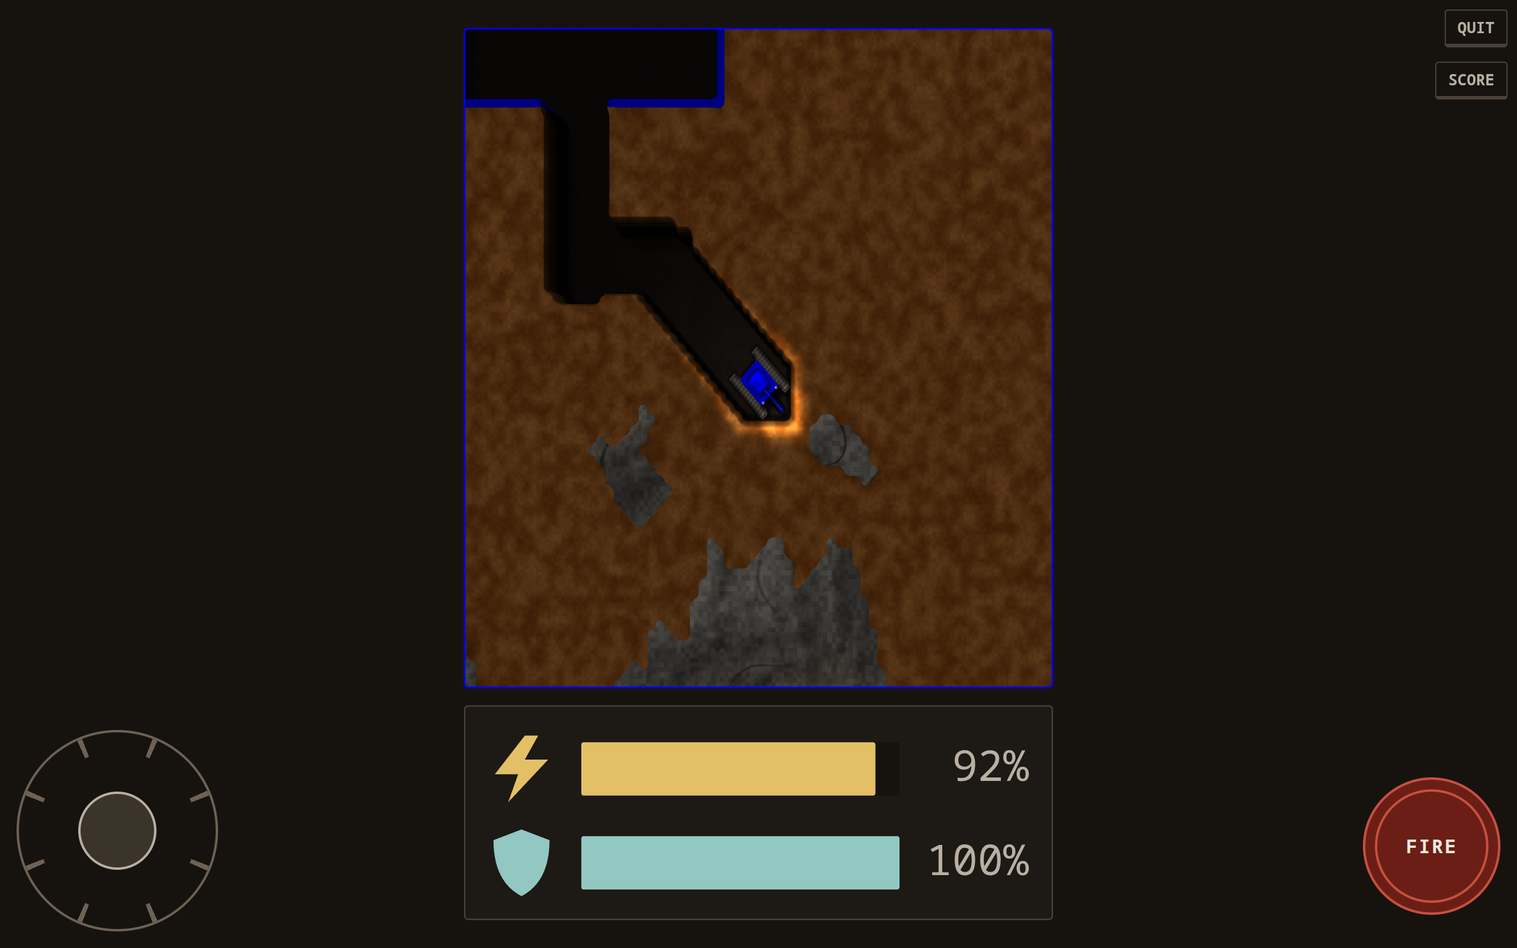
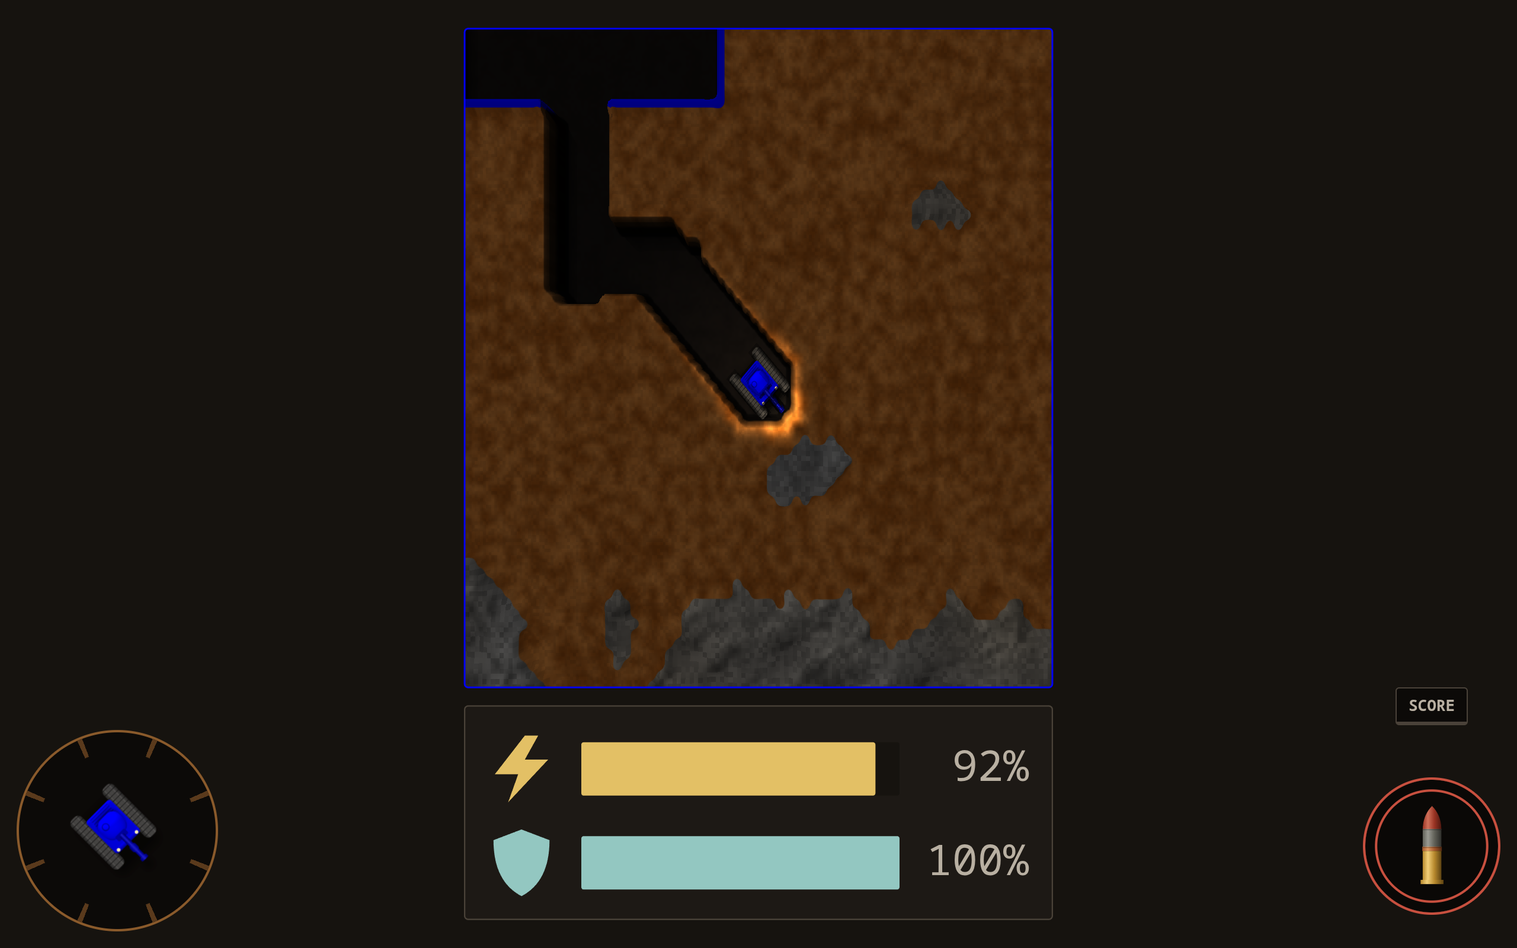
1.5.3: the picture drawn at most ~60 times a second (surface.js FRAME_MS: a 120 Hz phone was choppy drawing every frame); touch SCORE above FIRE and ESC / QUIT in the top left corner both ways a phone is held (upright the game below it: body.tpad-quit), no QUIT in the Android app (Back is Esc); the 

diff --git a/src/js/io/pads.js b/src/js/io/pads.js
@@ -210,7 +210,7 @@ class TouchControls {
     showPic(el("tpad-shell", this.fireBtn, null, "img"), shell);
     el("tpad-shellm", this.fireBtn, null, "span").innerHTML = SHELL_SVG;
     if (this.fireBtn.setAttribute) this.fireBtn.setAttribute("aria-label", labels.fire);
-    this.escBtn = el("tpad-esc", this.root, labels.esc);
+    this.escBtn = labels.esc ? el("tpad-esc", this.root, labels.esc) : null;
     this.statsBtn = labels.stats ? el("tpad-stats", this.root, labels.stats) : null;   // (held: the statistics)
     const capture = (t, e) => { try { t.setPointerCapture(e.pointerId); } catch (_) { /* (synthesized) */ } };
     const stop = e => { if (e.cancelable && e.preventDefault) e.preventDefault(); };
@@ -225,7 +225,7 @@ class TouchControls {
       b.addEventListener("contextmenu", stop);
     };
     button(this.fireBtn, this.fire);
-    button(this.escBtn, this.esc);
+    if (this.escBtn) button(this.escBtn, this.esc);
     if (this.statsBtn) button(this.statsBtn, this.stats);
     this.root.addEventListener("contextmenu", stop);
   }
@@ -337,7 +337,8 @@ function start(opts) {
   // top, the controls below it - everything else is centred; owner, 2026-10-27)
   function shown() {
     const cl = doc && doc.body && doc.body.classList;
-    if (cl) cl.toggle("tpad-shown", !!touch && !touch.root.hidden && !touch.menuHidden);
+    const on = !!touch && !touch.root.hidden && !touch.menuHidden;
+    if (cl) { cl.toggle("tpad-shown", on); cl.toggle("tpad-quit", on && !!touch.escBtn); }   // (tpad-quit: upright, the game below ESC)
   }
 
   // touch: the controls appear on the first touch (or right away on a touch-only device)
@@ -348,7 +349,8 @@ function start(opts) {
     shown();
   }
   if (opts.touchSet && doc && doc.body && typeof doc.body.appendChild === "function" && typeof doc.createElement === "function") {
-    touch = new TouchControls(doc, { fire: T("touch.fire") || "FIRE", esc: T(opts.escLabel || "touch.esc") || "ESC",
+    // (no ESC button in the Android app: the phone's Back is Esc there - MainActivity.kt; owner, 2026-11-11)
+    touch = new TouchControls(doc, { fire: T("touch.fire") || "FIRE", esc: root.TunnelerAndroid ? null : T(opts.escLabel || "touch.esc") || "ESC",
       stats: opts.statsLabel ? T(opts.statsLabel) || "SCORE" : null }, opts.touchTank);
     touch.root.hidden = true;
     doc.body.appendChild(touch.root);
@@ -372,7 +374,7 @@ function start(opts) {
     for (const p of pads.values()) p.releaseAll();
     if (touchPad) touchPad.releaseAll();
     if (touch && touch.root.remove) touch.root.remove();
-    if (doc && doc.body && doc.body.classList) doc.body.classList.remove("tpad-shown");
+    if (doc && doc.body && doc.body.classList) { doc.body.classList.remove("tpad-shown"); doc.body.classList.remove("tpad-quit"); }
     if (toastEl && toastEl.remove) toastEl.remove();
   });
   return { poll, pads, touch, showTouch };
@@ -380,16 +382,16 @@ function start(opts) {
 
 // touch controls' options: their size ("tunneler.touch.size": small / medium = the original / large - the
 // joystick and the buttons scaled, style.css --tpad-k), sides ("tunneler.touch.left" "1": the joystick
-// on the right, FIRE on the left) and look ("tunneler.touch.look": plain / tank - TouchControls); body classes
-// tpad-small / tpad-large / tpad-left / tpad-tank
-const TOUCH = { size: ["small", "medium", "large"], left: ["off", "on"], look: ["plain", "tank"] };
+// on the right, FIRE on the left) and look ("tunneler.touch.look": tank - the default, owner 2026-11-11 - / plain -
+// TouchControls); body classes tpad-small / tpad-large / tpad-left / tpad-tank
+const TOUCH = { size: ["small", "medium", "large"], left: ["off", "on"], look: ["tank", "plain"] };
 const TOUCH_KEYS = { size: "tunneler.touch.size", left: "tunneler.touch.left", look: "tunneler.touch.look" };
 function getTouch(name) {
   if (!TOUCH[name]) return null;
   let v = null;
   try { v = root.localStorage ? root.localStorage.getItem(TOUCH_KEYS[name]) : null; } catch (e) { v = null; }
   if (name === "left") return v === "1" ? "on" : "off";
-  if (name === "look") return TOUCH.look.includes(v) ? v : "plain";
+  if (name === "look") return TOUCH.look.includes(v) ? v : "tank";
   return TOUCH.size.includes(v) ? v : "medium";
 }
 function setTouch(name, value) {

diff --git a/src/css/style.css b/src/css/style.css
@@ -109,17 +109,19 @@ body.tpad-tank .tpad-shell { display: block; }
 .tpad-shellm svg { display: block; height: 100%; margin: 0 auto; }
 html.modern body.tpad-tank .tpad-shell { display: none; }
 html.modern body.tpad-tank .tpad-shellm { display: block; }
-/* ESC: a key cap; SCORE (held: the statistics) the same, below it (--cap: a key cap's height with the gap) */
-.tpad { --cap: calc(36px * var(--tpad-k, 1) + 8px); }
-.tpad-esc, .tpad-stats { right: max(8px, env(safe-area-inset-right)); top: max(8px, env(safe-area-inset-top));
-  padding: calc(5px * var(--tpad-k, 1)) calc(10px * var(--tpad-k, 1)); border-radius: 3px;
+/* ESC: a key cap in the top left corner (none in the Android app: its Back is Esc - pads.js); SCORE (held: the
+   statistics) the same, above FIRE, a key cap's height clear of it (owner, 2026-11-11: not between the joystick and
+   FIRE; ESC on the left - both ways a phone is held) */
+.tpad-esc, .tpad-stats { padding: calc(5px * var(--tpad-k, 1)) calc(10px * var(--tpad-k, 1)); border-radius: 3px;
   background: var(--fill); color: var(--esc); border: 1px solid var(--esc-edge); border-bottom-width: 3px; font-size: calc(13px * var(--tpad-k, 1)); }
-.tpad-stats { top: calc(max(8px, env(safe-area-inset-top)) + var(--cap)); }
+.tpad-esc { left: max(8px, env(safe-area-inset-left)); top: max(8px, env(safe-area-inset-top)); }
+.tpad-stats { --f: calc(min(26vmin, 116px) * var(--tpad-k, 1)); right: calc(max(14px, env(safe-area-inset-right)) + var(--f) / 2);
+  transform: translateX(50%); bottom: calc(max(28px, env(safe-area-inset-bottom)) + var(--f) + 8px + 36px * var(--tpad-k, 1)); }
 .tpad-esc.on, .tpad-stats.on { color: #fff; border-color: var(--esc); border-bottom-width: 1px; translate: 0 2px; }
 .tpad.dead .tpad-stick, .tpad.dead .tpad-fire { display: none; }   /* (your tank destroyed: ESC only) */
 body.tpad-left .tpad-stick { left: auto; right: max(14px, env(safe-area-inset-right)); }
 body.tpad-left .tpad-fire { right: auto; left: max(14px, env(safe-area-inset-left)); }
-body.tpad-left .tpad-esc, body.tpad-left .tpad-stats { right: auto; left: max(8px, env(safe-area-inset-left)); }
+body.tpad-left .tpad-stats { right: auto; left: calc(max(14px, env(safe-area-inset-left)) + var(--f) / 2); transform: translateX(-50%); }
 /* portrait: the game at the top, the controls below it */
 @media (orientation: portrait) {
   /* (no padding but the safe areas: the canvas to the screen's edges - a finger near an edge still drags it; owner,
@@ -130,11 +132,9 @@ body.tpad-left .tpad-esc, body.tpad-left .tpad-stats { right: auto; left: max(8p
   /* (the game at the top while the joystick and FIRE are below it - pads.js body.tpad-shown; anything else centred:
      the map editor, a spectator's or a replay's game, the engine's text screens) */
   body.touch.tpad-shown .screen { justify-content: flex-start; }
-  .tpad-esc, body.tpad-left .tpad-esc, .tpad-stats, body.tpad-left .tpad-stats { top: auto; right: auto; left: 50%; transform: translateX(-50%); bottom: max(28px, env(safe-area-inset-bottom)); }
-  .tpad-stats, body.tpad-left .tpad-stats { bottom: calc(max(28px, env(safe-area-inset-bottom)) + var(--cap)); }
-  /* (large: no room between the joystick and FIRE - ESC goes just above the joystick's top) */
-  body.tpad-large .tpad-esc { bottom: calc(max(14px, env(safe-area-inset-bottom)) + min(38vmin, 170px) * 1.3 + 8px); }
-  body.tpad-large .tpad-stats { bottom: calc(max(14px, env(safe-area-inset-bottom)) + min(38vmin, 170px) * 1.3 + 8px + var(--cap)); }
+  /* (the game below ESC - pads.js body.tpad-quit while it shows; owner, 2026-11-11; views.js keeps it above SCORE) */
+  body.touch.tpad-shown.tpad-quit { --screen-py: calc(env(safe-area-inset-top) + env(safe-area-inset-bottom) + 36px * var(--tpad-k, 1) + 16px); }
+  body.touch.tpad-shown.tpad-quit .screen { padding-top: calc(max(8px, env(safe-area-inset-top)) + 36px * var(--tpad-k, 1) + 8px); }
   body.touch .game:not([style*="width"]) { width: calc(100vw - var(--screen-px)); }
   body.touch .game.half:not([style*="width"]) { width: min(calc(100vw - 16px), calc((100dvh - 46vmin * var(--tpad-k, 1) - 40px) * 2 / 3)); }
 }

diff --git a/test/input-check.js b/test/input-check.js
@@ -282,6 +282,14 @@ const SC = { W: 0x11, A: 0x1E, X: 0x2D, D: 0x20, BLUEFIRE: 0x1D, GREENFIRE: 0x1C
       for (const k of ["touch.fire", "touch.esc", "touch.quit", "touch.leave", "touch.stats"]) assert(env.win.Lang.data[code][k], code + " " + k);
     }
     assert(!tc.statsBtn && !env.body.children.some(c => c !== tc.root && /tpad-stats/.test(c.className || "")), "no SCORE button unless asked for");
+    // the Android app: no ESC button - the phone's Back is Esc there (owner, 2026-11-11)
+    {
+      const envA = makeEnv("");
+      envA.win.TunnelerAndroid = {};
+      envA.load("lang/index.js", "js/io/input.js", "js/io/pads.js");
+      const tcA = envA.win.Pads.start({ raf: false, menu: () => false, touchSet: "blue", statsLabel: "touch.stats" }).touch;
+      assert(tcA && !tcA.escBtn && tcA.statsBtn && tcA.fireBtn && !tcA.root.children.some(c => /tpad-esc/.test(c.className || "")), "the Android app: no ESC button");
+    }
     ok("touch: joystick (8 directions, dead zone, clamped) + FIRE + ESC -> BLUE's keys; menus: arrows / Enter; shown on the first touch; labels in every language");
   }
 
@@ -456,13 +464,13 @@ const SC = { W: 0x11, A: 0x1E, X: 0x2D, D: 0x20, BLUEFIRE: 0x1D, GREENFIRE: 0x1C
     const env = makeEnv("");
     env.load("js/io/controls.js", "js/io/input.js", "js/io/pads.js");
     const P = env.win.Pads, cl = env.body.classList;
-    same(P.TOUCH, { size: ["small", "medium", "large"], left: ["off", "on"], look: ["plain", "tank"] });
-    assert.strictEqual(P.getTouch("look"), "plain");
+    same(P.TOUCH, { size: ["small", "medium", "large"], left: ["off", "on"], look: ["tank", "plain"] });
+    assert.strictEqual(P.getTouch("look"), "tank", "the tank look by default");
     assert.strictEqual(P.getTouch("size"), "medium"); assert.strictEqual(P.getTouch("left"), "off");
     assert.strictEqual(P.getTouch("nope"), null);
     assert.strictEqual(P.setTouch("size", "huge"), false); assert.strictEqual(P.setTouch("left", "maybe"), false);
     const ctl = P.start({ raf: false, menu: () => false, touchSet: "blue" });
-    assert(ctl.touch && !cl.contains("tpad-small") && !cl.contains("tpad-large") && !cl.contains("tpad-left"), "medium, right-handed: no class");
+    assert(ctl.touch && !cl.contains("tpad-small") && !cl.contains("tpad-large") && !cl.contains("tpad-left") && cl.contains("tpad-tank"), "medium, right-handed, the tank look: tpad-tank only");
     assert.strictEqual(P.setTouch("size", "large"), true);
     assert(cl.contains("tpad-large") && !cl.contains("tpad-small"), "large applied live");
     assert.strictEqual(env.win.localStorage.getItem("tunneler.touch.size"), "large");

diff --git a/tools/phone-check.js b/tools/phone-check.js
@@ -52,7 +52,7 @@ const layout = p => p.evaluate(() => {
   const root = document.querySelector(".tpad-stick") && document.querySelector(".tpad-stick").parentElement;
   return {
     canvas: r(document.getElementById("screen")), stick: r(document.querySelector(".tpad-stick")),
-    fire: r(document.querySelector(".tpad-fire")), esc: r(document.querySelector(".tpad-esc")),
+    fire: r(document.querySelector(".tpad-fire")), esc: r(document.querySelector(".tpad-esc")), stats: r(document.querySelector(".tpad-stats")),
     shown: !!root && !root.hidden && getComputedStyle(root).display !== "none",
     vw: innerWidth, vh: innerHeight,
     sw: document.scrollingElement.scrollWidth, sh: document.scrollingElement.scrollHeight
@@ -70,7 +70,13 @@ async function playChecks(ctx, p, file, tank) {
   await p.screenshot({ path: file("play") });
   ok(L.shown && L.stick && L.fire, "touch controls shown (joystick " + fmt(L.stick) + ", FIRE " + fmt(L.fire) + ")");
   ok(inside(L.canvas, L), "the canvas on the screen (" + fmt(L.canvas) + " in " + L.vw + "x" + L.vh + ")");
-  ok(!overlap(L.canvas, L.stick) && !overlap(L.canvas, L.fire) && !overlap(L.canvas, L.esc), "the canvas off the joystick, FIRE and ESC");
+  // (ESC in the top left corner - upright the game below it; SCORE above FIRE - owner, 2026-11-11)
+  const upright = L.vh > L.vw;
+  ok(!overlap(L.canvas, L.stick) && !overlap(L.canvas, L.fire) && !overlap(L.canvas, L.esc) && !overlap(L.canvas, L.stats),
+    "the canvas off the joystick, FIRE, ESC and SCORE");
+  ok(L.esc && L.esc.x < 20 && L.esc.y < 60 && L.stats && L.stats.y + L.stats.h <= L.fire.y + 1 &&
+    Math.abs(L.stats.x + L.stats.w / 2 - (L.fire.x + L.fire.w / 2)) < 2 && !overlap(L.stats, L.stick) && !overlap(L.esc, L.stick),
+    "ESC in the top left corner" + (upright ? ", the game below it" : "") + ", SCORE above FIRE (ESC " + fmt(L.esc) + ", SCORE " + fmt(L.stats) + ")");
   ok(L.sw <= L.vw && L.sh <= L.vh, "no page scroll (" + L.sw + "x" + L.sh + ")");
   if (!L.stick) return;
   // a held drag up (touch events through the DevTools protocol)

diff --git a/tools/play-screenshots.js b/tools/play-screenshots.js
@@ -1,6 +1,6 @@
 // The Google Play screenshots (docs/play-store/screenshots/): the same 8 screens on a phone held upright
 // (360 x 720 at 3x = 1080 x 2160) and on 7" / 10" tablets held sideways (960 x 600 / 1280 x 800 at 2x =
-// 1920 x 1200 / 2560 x 1600), graphics modern, touch:
+// 1920 x 1200 / 2560 x 1600), graphics modern, touch, as the Android app (window.TunnelerAndroid):
 //   1 the main menu (a new player's: the training ground chosen), 2 the training ground (a step's hint over the game),
 //   3 a battle (your own view, the touch controls), 4 four tanks (everyone's views), 5 an online game's lobby (quick
 //   play, chat), 6 the daily challenge's leaderboard, 7 the map editor, 8 the medals (1.4: 2 and 8 were the skirmish's
@@ -117,6 +117,8 @@ function drawMap() {
         const ctx = await b.newContext(touch ? { viewport: { width: w, height: h }, deviceScaleFactor: dpr, isMobile: true, hasTouch: true }
           : { viewport: { width: 1000, height: 820 } });
         await ctx.addInitScript(o => { for (const k in o) localStorage.setItem(k, o[k]); }, Object.assign({}, LS, ls));
+        // (the phone / tablet as the Android app the store sells: no QUIT button - the phone's Back is Esc - pads.js)
+        if (touch) await ctx.addInitScript(() => { window.TunnelerAndroid = window.TunnelerAndroid || {}; });
         const p = await ctx.newPage(); p.on("pageerror", e => errs.push(dev + " " + url + ": " + e.message));
         await p.goto(B + url); return p;
       };

diff --git a/src/lang/uk/main.js b/src/lang/uk/main.js
@@ -413,7 +413,7 @@ Lang.register("uk", {
           "та A / B працюють як стрілки, <ENTER> і <ESC>, Y як <TAB>, LB / RB і LT / RT як [ ] і - + " +
           "(інструмент, пензель і масштаб у редакторі мап; швидкість запису).  На телефонах і планшетах " +
           "після першого дотику з'являються екранний джойстик і кнопки ВОГОНЬ, ESC та РАХУНОК (ESC у сутичці - " +
-          "ВИХІД, онлайн - ПОКИНУТИ; поки твій танк знищено, лишається тільки вона); для імен і чату поки " +
+          "ВИХІД, онлайн - ПОКИНУТИ; поки твій танк знищено, лишається тільки вона; у застосунку для Android її немає: це робить кнопка Назад телефона); для імен і чату поки " +
           "потрібна клавіатура."],
         ["Перемога:  ", "Матч виграє танк (або команда), що першим виграє обрану кількість " +
           "раундів - від 1 до 9, в оригіналі 3.  Раунд може мати й обмеження часу: 2, 3, 5 або 10 " +

diff --git a/src/lang/ru/main.js b/src/lang/ru/main.js
@@ -413,7 +413,7 @@ Lang.register("ru", {
           "и A / B работают как стрелки, <ENTER> и <ESC>, Y как <TAB>, LB / RB и LT / RT как [ ] и - + " +
           "(инструмент, кисть и масштаб в редакторе карт; скорость записи).  На телефонах и планшетах " +
           "после первого касания появляются экранный джойстик и кнопки ОГОНЬ, ESC и СЧЁТ (ESC в схватке - " +
-          "ВЫХОД, онлайн - ПОКИНУТЬ; пока твой танк уничтожен, остаётся только она); для имён и чата пока " +
+          "ВЫХОД, онлайн - ПОКИНУТЬ; пока твой танк уничтожен, остаётся только она; в приложении для Android её нет: это делает кнопка Назад телефона); для имён и чата пока " +
           "нужна клавиатура."],
         ["Победа:  ", "Матч выигрывает танк (или команда), первым выигравший выбранное число " +
           "раундов - от 1 до 9, в оригинале 3.  У раунда может быть и ограничение времени: 2, 3, 5 " +

diff --git a/src/js/draw/surface.js b/src/js/draw/surface.js
@@ -131,8 +131,16 @@ function soon() {
 function schedule() {
   if (!raf && root.requestAnimationFrame) raf = Scope.free(() => root.requestAnimationFrame(tick));
 }
+// At most ~60 pictures a second: a 90 / 120 / 144 Hz screen (phones) asks for more animation frames than that, and
+// drawing every one doubled the work for nothing - the game moves 18.2 times a second - and made a phone's frames
+// uneven (owner, 2026-11-11: choppy on a 120 Hz phone). A frame up to EARLY_MS before the next picture is due draws
+// (a 60 Hz screen's frames all draw), the phase kept while on time; a frame whose clock didn't move on draws too.
+const FRAME_MS = 1000 / 60, EARLY_MS = 3;
+let nextAt = 0;                                            // (when the next picture is due)
 function tick(now) {
   raf = 0;
+  if (now > nextAt - FRAME_MS && now < nextAt - EARLY_MS) { if (layers.length) schedule(); return; }
+  nextAt = now >= nextAt - EARLY_MS && now - nextAt < FRAME_MS ? nextAt + FRAME_MS : now + FRAME_MS;
   const t0 = root.performance ? root.performance.now() : 0;
   compose(now, true);
   if (Debug.on()) { Debug.count("frames"); if (t0) Debug.time("draw", root.performance.now() - t0); }

diff --git a/src/js/draw/views.js b/src/js/draw/views.js
@@ -69,9 +69,10 @@ const root = typeof window !== "undefined" ? window : globalThis;
 function controlsRoom(canvas) {
   const d = root.document;
   if (!d || !d.querySelector || !GameScreen.mobile()) return null;
-  const rects = [".tpad-stick", ".tpad-fire"].map(q => d.querySelector(q)).filter(Boolean).map(e => e.getBoundingClientRect()).filter(r => r.height > 0);
-  if (!rects.length) return null;
   const W = root.innerWidth || 0, H = root.innerHeight || 0, top = canvas ? Math.max(8, canvas.getBoundingClientRect().top) : 8;
+  // (upright: SCORE too - it sits above the joystick, style.css)
+  const rects = [".tpad-stick", ".tpad-fire", ...(H > W ? [".tpad-stats"] : [])].map(q => d.querySelector(q)).filter(Boolean).map(e => e.getBoundingClientRect()).filter(r => r.height > 0);
+  if (!rects.length) return null;
   if (H > W) return { w: W - 16, h: Math.round(Math.min(...rects.map(r => r.top)) - 8 - top) };
   const left = Math.max(0, ...rects.filter(r => r.left < W / 2).map(r => r.right)), right = Math.min(W, ...rects.filter(r => r.left >= W / 2).map(r => r.left));
   return { w: Math.round(2 * Math.min(W / 2 - left, right - W / 2) - 16), h: H - 16 };

diff --git a/test/app-check.js b/test/app-check.js
@@ -104,6 +104,18 @@ function makeEnv(href) {
     ok("the screen of the address: /, /games, /game/<id>, /split, /replays, /challenge (and /lobby.html, /online.html, /play.html, /replays.html, /challenge.html); unknown: the main menu");
   }
   {
+    // the Android app: no history - Tauri's Back handler goes back in it while it has any (owner, 2026-11-11: Back on the
+    // main menu after a skirmish started a new game)
+    const env = makeEnv("http://x.test/");
+    env.win.TunnelerAndroid = {};
+    vm.runInContext(app, env.ctx, { filename: "app.js" });
+    await wait(40);
+    for (const u of ["/skirmish?slots=0:you:1,1:easy:2", "/", "/replays", "/"]) { env.win.Nav.go(u); await wait(60); }
+    assert.strictEqual(env.history.entries.length, 1, "one history entry: " + env.history.entries.join(" "));
+    assert.strictEqual(env.location.pathname, "/");
+    ok("the Android app: going to another screen replaces the history entry (nothing for Back to go back to)");
+  }
+  {
     const env = makeEnv("http://x.test/");
     vm.runInContext(app, env.ctx, { filename: "app.js" });
     await wait(40);

diff --git a/src/lang/sk/main.js b/src/lang/sk/main.js
@@ -415,7 +415,7 @@ Lang.register("sk", {
           "smerový ovládač a A / B ako šípky, <ENTER> a <ESC>, Y ako <TAB>, LB / RB a LT / RT ako [ ] a " +
           "- + (nástroj, štetec a zoom v editore máp; rýchlosť záznamu).  Na telefónoch a tabletoch sa pri " +
           "prvom dotyku objaví joystick na obrazovke a tlačidlá PAĽBA, ESC a SKÓRE (ESC je v potýčke KONIEC, " +
-          "online ODÍSŤ; kým je tvoj tank zničený, zostane len ono); mená a chat zatiaľ potrebujú klávesnicu."],
+          "online ODÍSŤ; kým je tvoj tank zničený, zostane len ono; aplikácia pre Android ho nemá: robí to tlačidlo Späť telefónu); mená a chat zatiaľ potrebujú klávesnicu."],
         ["Víťazstvo:  ", "Zápas vyhrá tank (alebo tím), ktorý prvý vyhrá zvolený počet kôl - 1 až 9, " +
           "v origináli 3.  Kolo môže mať aj časový limit 2, 3, 5 alebo 10 minút (posledných 30 sekúnd " +
           "sa odpočítava vedľa prístrojového panelu).  Keď čas vyprší, kolo vyhrá strana, ktorá " +

diff --git a/src/lang/cs/main.js b/src/lang/cs/main.js
@@ -415,7 +415,7 @@ Lang.register("cs", {
           "směrový ovladač a A / B jako šipky, <ENTER> a <ESC>, Y jako <TAB>, LB / RB a LT / RT jako [ ] " +
           "a - + (nástroj, štětec a zoom v editoru map; rychlost záznamu).  Na telefonech a tabletech se " +
           "při prvním dotyku objeví joystick na obrazovce a tlačítka PAL, ESC a SKÓRE (ESC je v šarvátce KONEC, " +
-          "online ODEJÍT; dokud je tvůj tank zničený, zůstane jen ono); jména a chat zatím potřebují " +
+          "online ODEJÍT; dokud je tvůj tank zničený, zůstane jen ono; aplikace pro Android ho nemá: dělá to tlačítko Zpět telefonu); jména a chat zatím potřebují " +
           "klávesnici."],
         ["Vítězství:  ", "Zápas vyhraje tank (nebo tým), který jako první vyhraje zvolený počet kol " +
           "- 1 až 9, v originálu 3.  Kolo může mít i časový limit 2, 3, 5 nebo 10 minut (posledních 30 " +
